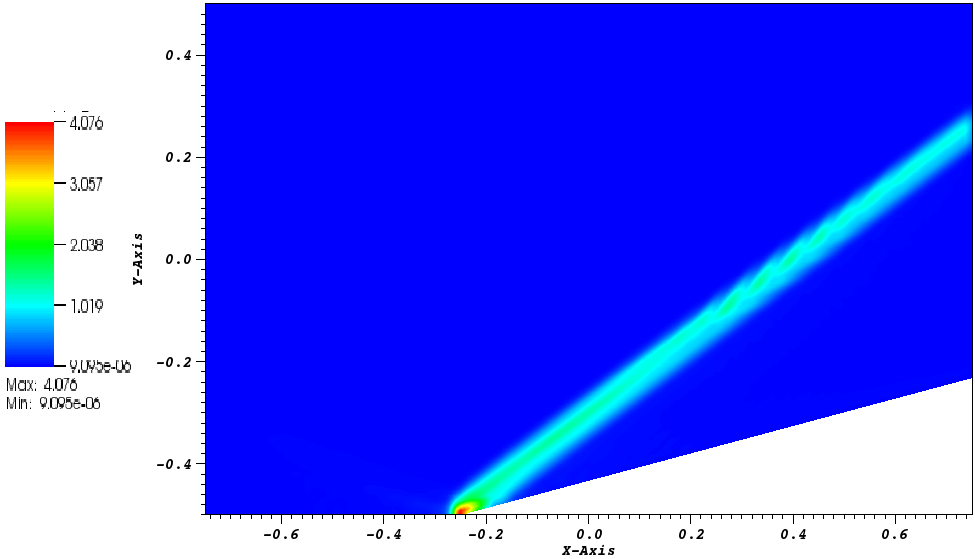
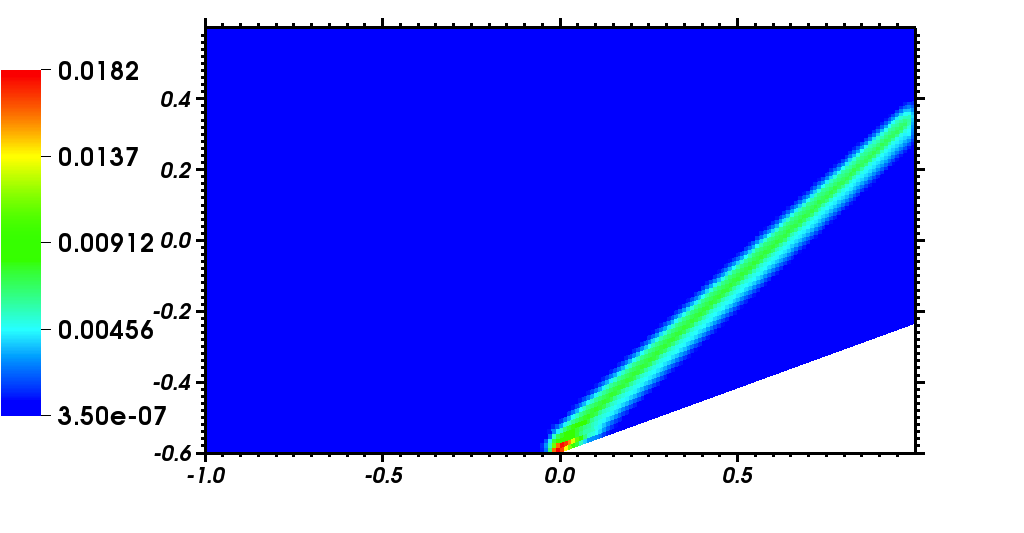
modified the 2d plots

diff --git a/low_mach_final.tex b/low_mach_final.tex
@@ -150,29 +150,8 @@
 
 %%%%%%%%%%%%%%%%%%%%%%%%%%%%%%%%%%%%%%%%%%%%%%%%%%%%%%%%%%%%%%%%%%%%
 \begin{frontmatter}
-
-%% Title, authors and addresses
-
-%% use the tnoteref command within \title for footnotes;
-%% use the tnotetext command for theassociated footnote;
-%% use the fnref command within \author or \address for footnotes;
-%% use the fntext command for theassociated footnote;
-%% use the corref command within \author for corresponding author footnotes;
-%% use the cortext command for theassociated footnote;
-%% use the ead command for the email address,
-%% and the form \ead[url] for the home page:
-%\title{Title\tnoteref{label1}}
-%% \tnotetext[label1]{}
-%% \author{Name\corref{cor1}\fnref{label2}}
-%% \ead{email address}
-%% \ead[url]{home page}
-%% \fntext[label2]{}
-%% \cortext[cor1]{}
-%% \address{Address\fnref{label3}}
-%% \fntext[label3]{}
 %-------------------------
 %-------------------------
-%\title{Extension of the entropy viscosity method to the low Mach regime for the multi-dimensional Euler equations\\
 \title{Entropy-based viscous regularization for the multi-dimensional Euler equations in low-Mach and transonic flows}
 %-------------------------
 %-------------------------
@@ -233,14 +212,13 @@ When solving Euler equations for a wide range of Mach numbers, multiple question
 accuracy and solution convergence in the low-Mach regime. Because of the hyperbolic nature of the equations, 
 shocks can form during transonic and supersonic flows and require the use of adequate numerical techniques to stabilize the solution
 and correctly resolve the discontinuities \cite{lax-peter, harten-hyman}. A wide range of stabilization methods are available in the literature: approximate Riemann solvers \cite{Toro}, flux-limiter techniques 
-\cite{FluxLimiter, FluxLimiter2}, pressure-based viscosity methods \cite{PBV_book}, Lapidus method \cite{Lapidus_paper, LMP, Lapidus_book}, 
-and the entropy-viscosity method \cite{jlg1, jlg2}, flux-corrected transport \cite{fct-zalesak, fct-kuzmin-lohner}, among others. These numerical methods are usually developed using simple equations 
+\cite{FluxLimiter, FluxLimiter2, fct-zalesak, fct-kuzmin-lohner}, pressure-based viscosity methods \cite{PBV_book}, Lapidus method \cite{Lapidus_paper, LMP, Lapidus_book}, 
+and the entropy-viscosity method \cite{jlg1, jlg2}, among others. These numerical methods are usually developed using simple equations 
 of state and tested for transonic and supersonic flows where the disparity between the acoustic wave speed and the fluid speed is not 
 excessively large and thus the Mach number is of order one. This approach, however, leads to a well-known accuracy problem in the low-Mach regime 
 where the fluid velocity is smaller that the speed of sound by multiple orders of magnitude. The numerical dissipative terms become 
 ill-scaled in the low-Mach regime and lead to the wrong numerical solution by changing the nature of the equations solved. This 
 behavior is well documented in the literature \cite{LowMach1, LowMach2, LowMach3}.
-% and often treated by performing a low-Mach  asymptotic study of Euler equations. 
 In \cite{LowMach1}, a low-Mach asymptotic study has demonstrated convergence of the 
 compressible Euler equations to the incompressible ones. 
 Many well-known stabilization techniques, for instance, the Roe scheme and the SUPG technique,
@@ -475,7 +453,7 @@ transonic and supersonic flows.
 The first step in defining viscosity coefficients that behave well in the low-Mach limit is to recast 
 the entropy residual in terms of thermodynamic variables. This provides physical insight on possible 
 normalization choices that can be valid in both low-Mach and transonic flows. The alternate definition 
-of the entropy residual, whose derivation is given in \app{app:ent_res}, is the following: %in \eqt{eq:ent_res}. The derivation that leads to this equation is provided in \app{app:ent_res}. 
+of the entropy residual, whose derivation is given in \app{app:ent_res}, is the following:
 %
 \begin{equation}
 \label{eq:ent_res}
@@ -628,9 +606,6 @@ For simplicity, we use here the ideal gas equation of state; its non-dimensional
 \label{eq:euler_eq2_eos}
 P^* = \left( \gamma-1 \right) \rho^*\left(  E^* -\frac{1}{2} M_\infty^2 (u^*)^2 \right) = \left( \gamma-1 \right) \rho^* e^* \, .
 \end{equation}
-%\tcb{this assumption is only useful in the asymptotic limit. I believe it is possible to carry the same asymptotic limit by assuming a more generic form of the equation of state such as $P = f(\rho)$ for isentropic flow. Do you think it is a good idea to do so?}\\
-
-%We consider two limit cases: isentropic flows \tcr{(the low-Mach asymptotic limit)} and non-isentropic situations (both subsonic and supersonic since we do not wish to specialize the entropy viscosity method to only low-Mach flows). 
 
 In the low-Mach isentropic limit, shocks cannot form and the compressible Euler equations are known to 
 converge to the incompressible equations when the Mach number tends to zero. When adding dissipative 
@@ -787,8 +762,6 @@ The derivation for ``$\norm_P^\mu$'' is similar and yields
 A smooth function to transition between these two states is obtained by employing a smoothed shifted Heaviside function
 defined as follows: % the shifted sigmoid function
 \begin{equation}
-% \sigma(M) = \frac{1}{1+\exp\big(-(M-M^\text{thresh})\big)} \,,
-% \sigma(M) = \frac{\tanh\big(a(M-M^\text{thresh})\big) + | \tanh\big(a(M-M^\text{thresh})\big) | }{2} \,,
 \sigma(M) =
 \left\{
 \begin{array}{ll}
@@ -905,7 +878,6 @@ A low-Mach asymptotic limit of the Euler equations with variable area on the sam
 \sct{sec:lowMach} will lead to the divergence constraint $\div (\vec{u} A) = 0$ that can be recast 
 as $\div \vec{u} = -\vec{u} \cdot \grad{A} / A$. The gradient of the area acts as a source term and 
 will force the fluid to accelerate or decelerate, depending on its sign. 
-%Since the dissipation is done partially on the velocity in the momentum and the energy equations (see \eqt{eq:euler_eq_mom_var_A} and \eqt{eq:euler_eq_ener_var_A} ), in the presence of a strong gradient of the area, $\grad A$, an excess amount of dissipation will be added to the system, making the numerical system converge to a wrong solution. They are to remedies to this problem. The first one consists of replacing the dissipative term $\mu A \grad^s \vec{u}$ by $\mu \grad^s (A\vec{u})$ to ensure the correct scaling of the dissipative term in the low Mach limit. However, the entropy minimum principle is no longer verified. The second option is to change the normalization of the viscosity coefficient $\mu$ from $\rho \| \vec{u} \|^2$ to $ \rho c^2$ to force the dissipative term to zero. The entropy minimum principle is still verified but such a choice will underestimate the dissipation and will not be able to stabilize shocks with low Mach number.
 
 %%%%%%%%%%%%%%%%%%%%%%%%%%%%%%%%%%%%%%%%%%%%%%%%%%%%%%%%%%%%%%%%%%%%%%%%%%%%%%%%%%%%%%%%%%%%%%%%%%%%
 %%%%%%%%%%%%%%%%%%%%%%%%%%%%%%%%%%%%%%%%%%%%%%%%%%%%%%%%%%%%%%%%%%%%%%%%%%%%%%%%%%%%%%%%%%%%%%%%%%%%
@@ -1104,38 +1076,6 @@ Finally, the convergence rates are computed using the following relation
 \end{equation}
 where $\| \cdot \|$ denotes either the L$_1$ or L$_2$ norms and $h$ is the characteristic grid size.
 
-%\tcr{What is this formula for the convergence rates?
-%First, if the exact solution is NOT known, then the formula should be
-% $[u(2h)-u(h)]/[u(h)-u(h/2)]=2^p$. 
-%That is, without u(exact) at all! Why do you need 3 numerical values to get the rate? Because you have 3 unknowns: u(exact), the error constant C, and p.\\
-%Second, here I believe that you do have an exact solution available. So, why do you need 3 numerical solutions? Two solutions would be enough:
-%$[u(2h)-u(exact)]/[u(h)-u(exact)] = 2^p$.
-%So, why use the formula that requires 3 data points when you do have the exact solution and just need two data points?
-%}
-%\tcb{I only did convergence tests using the exact solution. I modified the formula. I do not know what happened but this is not the one I used.} \tcr{I am very confused. Why don't you have a data point for the 4-cell run in tables 3 and 4 then?  Do you want to know why? Here are the density convergence rates computed with the 3-data-point formula:}
-%                       n/a  \\
-%         0.497853160115594  \\ 
-%          2.10066309721854  \\
-%          2.58043832278016  \\
-%          2.30875723293862  \\
-%          2.17681585582442  \\
-%          2.08147540790485  \\
-%          2.07422068901013  \\
-%                       n/a  \\
-%\tcr{Exactly what you have in your table. So, yes, the 3-data-point is what you used to generate the rates in tables 3-4.
-%%
-%The 2-data-point formula would give these values:}
-%                      n/a   \\                        
-%         1.07124891291942   \\ 
-%         2.18352054680744   \\
-%         2.52253088089074   \\
-%         2.27555126516373   \\
-%         2.15464731325216   \\
-%         2.08062517386829   \\
-%         2.07788241680274   \\
-%         2.08974364066811   \\
-%\tcr{Clearly, yo do NOT have these values.			Any reviewer can check this in 3 minutes. Stating we did it one way but doing it another way can hurt credibility. It makes sense to use the 2-pt formula when the exact solution is known, so please change the rates of tables 3-4 so that they are indeed computed with the 2-pt formula.}
-
 %---------------------------------------------------------------------------------------------------
 \subsection{Liquid water in a 1-D converging-diverging nozzle} \label{sec:liquid_nozzle}
 %---------------------------------------------------------------------------------------------------
@@ -1290,9 +1230,6 @@ The steady-state solution exhibits a shock around $x=0.8m$ and matches the exact
 the first-order and entropy viscosity coefficients are plotted at steady state (on a log scale): the entropy viscosity 
 coefficient is peaked in the shock region around $x=0.8m$ where it saturates to the first-order viscosity 
 coefficient. 
-%The graph also presents another peak at $x=0.5m$  corresponding to the position of the sonic point for the 
-%1-D converging-diverging nozzle. This particular point is known to exhibit small instabilities that are detected when 
-%computing the jumps of the pressure and density gradients. 
 Elsewhere, the entropy  viscosity coefficient is small. 
 In order to prove convergence of the numerical solution to the exact solution, a convergence study is performed. Because 
 of the presence of a shock, second-order accuracy is not expected and the convergence rate of a numerical solution 
@@ -1543,7 +1480,6 @@ The main features of the potential flow are the following:
 \item The spatial steady-state pressure variations are proportional to the square of inlet Mach number, i.e., 
 \begin{equation}
 \delta P = \frac{\max(P(\vec{r})) - \min(P(\vec{r}))}{\max(P(\vec{r}))}  \propto M_\infty^2
-%\|\tilde{\vec{u}}\| = \frac{\max(\|\vec{u}\|) - \min(\|\vec{u}\|)}{\max(\|\vec{u}\|)}  \propto M_\infty\nonumber 
 \end{equation}
 where $\delta P$ and $M_\infty$ denote the spatial steady-state pressure variations and the inlet Mach number, respectively.
 \end{itemize}
@@ -2042,7 +1978,6 @@ Finally, the right-hand side of the entropy residual \eqt{eq:ent_res_app} has no
 \section{Entropy residual for isentropic flows} \label{app:ise_equ}
 %%%%%%%%%%%%%%%%%%%%%%%%%%%%%%%%%%%%%%%%%%%%%%%%%%%%%%%%%%%%%%%%%%%%%%%%%%%%%%%%%%%%%%%%%%%%%%%%%%%%
 %%%%%%%%%%%%%%%%%%%%%%%%%%%%%%%%%%%%%%%%%%%%%%%%%%%%%%%%%%%%%%%%%%%%%%%%%%%%%%%%%%%%%%%%%%%%%%%%%%%%
-%\tcr{I cannot find a reference to this appendix in the main body of the manuscript. Add one.\\}
 This appendix shows that the entropy residual is zero for isentropic flows. For convenience, we recall
 here the entropy residual as a function of the pressure, density, velocity, and speed of sound:
 %
@@ -2065,7 +2000,7 @@ Using the chain rule, the entropy residual in \eqt{eq:app_entr} can be recast as
          = c^2                       \matder \rho - c^2  \matder  \rho  
          =  0 \,.
 \end{equation}
-
+%
 %%%%%%%%%%%%%%%%%%%%%%%%%%%%%%%%%%%%%%%%%%%%%%%%%%%%%%%%%%%%%%%%%%%%%%%%%%%%%%%%%%%%%%%%%%%%%%%%%%%%
 %%%%%%%%%%%%%%%%%%%%%%%%%%%%%%%%%%%%%%%%%%%%%%%%%%%%%%%%%%%%%%%%%%%%%%%%%%%%%%%%%%%%%%%%%%%%%%%%%%%%
 \end{document}
